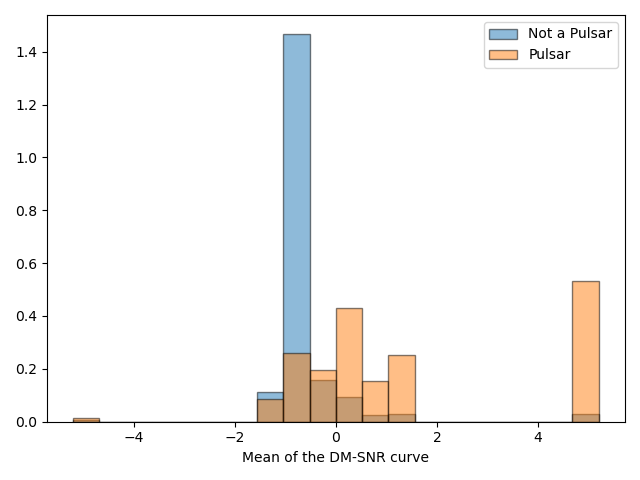
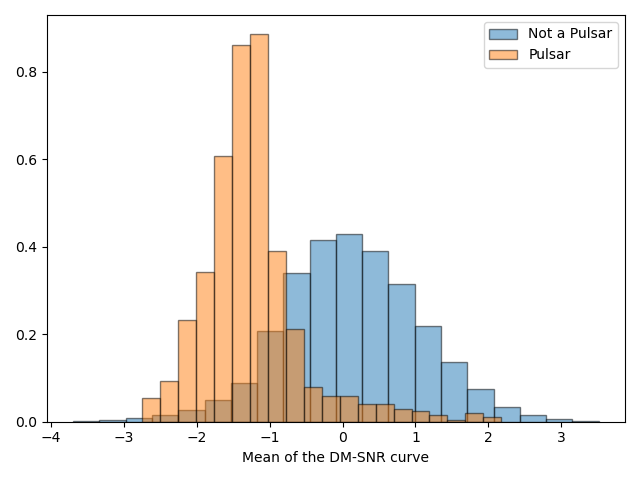
gitignore

diff --git a/main.py b/main.py
@@ -17,6 +17,8 @@ from itertools import combinations
 import time
 import concurrent.futures
 from tqdm import tqdm
+import sklearn.model_selection
+from scipy.interpolate import interp1d
 
 labels_map = {
     0: 'Not a Pulsar',
@@ -142,9 +144,9 @@ def k_fold_min_DCF(D, L, K, Classifier, prior, class_args=(), transformers=[], t
     nTest = int(D.shape[1] / K)
     nTrain = D.shape[1] - nTest
     numpy.random.seed(0)
-    idx = numpy.random.permutation(D.shape[1])
+    idx_1 = numpy.random.permutation(D.shape[1])
     # duplicate idx
-    idx = numpy.concatenate((idx, idx))
+    idx = numpy.concatenate((idx_1, idx_1))
 
     n_classes = len(set(L))
     llr = numpy.zeros(D.shape[1])
@@ -178,13 +180,19 @@ def gaussianize(D):
 if __name__ == '__main__':
     DTR, LTR = load_data('./data/Train.txt')
 
-    print_plots = False
+    # DTR, _, LTR, _ = sklearn.model_selection.train_test_split(DTR.T, LTR, train_size=1 / 8, random_state=42)
+    # DTR = DTR.T
 
-    try:
+    print_plots = True
+    load_precomputed_data = [True, True, True]  # [False, False, False]
+    store_computed_data = [True, True, True]  # [True, True, True]
+
+    if load_precomputed_data[0]:
         DTR_G = numpy.load('./data/TrainGAU.npy')
-    except FileNotFoundError:
+    else:
         DTR_G = Gaussianizer().fit(DTR).transform(DTR)
-        numpy.save('./data/TrainGAU.npy', DTR_G)
+        if store_computed_data[0]:
+            numpy.save('./data/TrainGAU.npy', DTR_G)
 
     if print_plots:
         plot_hist(DTR, LTR)
@@ -217,17 +225,17 @@ if __name__ == '__main__':
     mindcf = numpy.zeros((len(data), classifiers.shape[0], priors.shape[0]))
     transformers = [
         [Gaussianizer],
-        [Gaussianizer, PCA],
-        [Gaussianizer, PCA],
-        [Gaussianizer, PCA],
+        [PCA, Gaussianizer],
+        [PCA, Gaussianizer],
+        [PCA, Gaussianizer],
         [],
         [PCA]
     ]
     transf_args = [
         [()],
-        [(), (7,)],
-        [(), (6,)],
-        [(), (5,)],
+        [(7,), ()],
+        [(6,), ()],
+        [(5,), ()],
         [()],
         [(7,)]
     ]
@@ -237,20 +245,25 @@ if __name__ == '__main__':
     elif classifiers.shape[0] != classifier_name.shape[0]:
         raise Exception("Length of classifiers/classifier_name incoherent")
 
+    if load_precomputed_data[1]:
+        mindcf = numpy.load('./data/minDCF_GAU_models.npy')
+
     results = []
     for d, D in enumerate(data):
         with concurrent.futures.ProcessPoolExecutor() as executor:
-            for i, c in enumerate(classifiers):
-                for j, p in enumerate(priors):
-                    print(classifier_name[i] + " - prior = " + str(p) + " - data id = " + str(d))
-                    results.append(executor.submit(k_fold_min_DCF, D, LTR, 5, c, p, (), transformers[d], transf_args[d]))
-                    # print("min_DCF = " + str(mindcf[i, j]))
+            if not load_precomputed_data[1]:
+                for i, c in enumerate(classifiers):
+                    for j, p in enumerate(priors):
+                        print(classifier_name[i] + " - prior = " + str(p) + " - data id = " + str(d))
+                        results.append(executor.submit(k_fold_min_DCF, D, LTR, 5, c, p, (), transformers[d], transf_args[d]))
+                        # print("min_DCF = " + str(mindcf[i, j]))
             for i, r in enumerate(tqdm(results)):
                 mindcf[numpy.unravel_index(i, mindcf.shape, 'C')] = round(r.result(), 3)
             table = numpy.hstack((vcol(classifier_name), mindcf[d]))
             print(tabulate(table, headers=[""] + list(priors), tablefmt='fancy_grid'))
 
-    numpy.save('./data/minDCF_GAU_models.npy', mindcf)
+    if not store_computed_data[1]:
+        numpy.save('./data/minDCF_GAU_models.npy', mindcf)
 
     ##################################################################################
 
@@ -273,13 +286,13 @@ if __name__ == '__main__':
     data = [DTR for i in range(2)]
 
     lamb = numpy.array([10 ** i for i in range(-6, 6)])
-    lamb = numpy.array([numpy.linspace(lamb[i], lamb[i + 1], 10) for i in range(lamb.shape[0] - 1)]).reshape(-1)
+    lamb = numpy.array([numpy.linspace(lamb[i], lamb[i + 1], 2) for i in range(lamb.shape[0] - 1)]).reshape(-1)
     priors = numpy.array([0.5, 0.1, 0.9])
 
-    # try:
-    #     mindcf = numpy.load('./data/minDCF_LogReg_lamb.npy')
-    # except FileNotFoundError:
-    mindcf = numpy.zeros((len(data), classifiers.shape[0], priors.shape[0], lamb.shape[0]))
+    if load_precomputed_data[2]:
+        mindcf = numpy.load('./data/minDCF_LogReg_lamb.npy')
+    else:
+        mindcf = numpy.zeros((len(data), classifiers.shape[0], priors.shape[0], lamb.shape[0]))
 
     if len(data) != len(transformers) or len(transformers) != len(transf_args):
         raise Exception("Length of data/transformers/transf_args incoherent")
@@ -289,29 +302,36 @@ if __name__ == '__main__':
     results = []
     for d, D in enumerate(data):
         with concurrent.futures.ProcessPoolExecutor() as executor:
-            for i, c in enumerate(classifiers):
-                for j, p in enumerate(priors):
-                    print(classifier_name[i] + " - prior = " + str(p) + " - data id = " + str(d))
-                    for k, l in enumerate(lamb):
-                        results.append(executor.submit(k_fold_min_DCF, D, LTR, 5, c, p, (l,), transformers[d], transf_args[d]))
+            if not load_precomputed_data[2]:
+                for i, c in enumerate(classifiers):
+                    for j, p in enumerate(priors):
+                        print(classifier_name[i] + " - prior = " + str(p) + " - data id = " + str(d))
+                        for k, l in enumerate(lamb):
+                            results.append(executor.submit(k_fold_min_DCF, D, LTR, 5, c, p, (l,), transformers[d], transf_args[d]))
             for i, r in enumerate(tqdm(results)):
                 mindcf[numpy.unravel_index(i, mindcf.shape, 'C')] = round(r.result(), 3)
             table = numpy.hstack((vcol(classifier_name), mindcf[d].min(axis=2, initial=inf)))
             print(tabulate(table, headers=[""] + list(priors), tablefmt='fancy_grid'))
 
-    numpy.save('./data/minDCF_LogReg_lamb.npy', mindcf)
+    if store_computed_data[2]:
+        numpy.save('./data/minDCF_LogReg_lamb.npy', mindcf)
 
-    for i in range(mindcf.shape[0]):
-        table = numpy.hstack((vcol(classifier_name[i:i + 1]), vrow(mindcf[i].min(axis=1, initial=inf))))
-        print(tabulate(table, headers=[""] + list(priors), tablefmt='fancy_grid'))
-        plt.figure()
-        for j, p in enumerate(priors):
-            plt.plot(lamb, mindcf[i, j, :], label='minDCF (π = ' + str(p) + ')')
-        plt.xlabel('λ')
-        plt.ylabel('min DCF')
-        plt.legend()
-        plt.xscale('log')
-        plt.tight_layout()
-        name = 'Raw' if i == 0 else 'Gaussianized'
-        plt.savefig('./plots/mindcf_training/' + name + '_LogReg_lamb.png')
-        plt.show()
+    for d in range(len(data)):
+        for i in range(mindcf[d].shape[0]):
+            table = numpy.hstack((vcol(classifier_name[i:i + 1]), vrow(mindcf[d, i].min(axis=1, initial=inf))))
+            print(tabulate(table, headers=[""] + list(priors), tablefmt='fancy_grid'))
+            plt.figure()
+            for j, p in enumerate(priors):
+                plt.plot(lamb, mindcf[d, i, j], label='minDCF (π = ' + str(p) + ')')
+            plt.xlabel('λ')
+            plt.ylabel('min DCF')
+            plt.legend()
+            plt.xscale('log')
+            plt.tight_layout()
+            name = 'Raw' if i == 0 else 'Gaussianized'
+            if store_computed_data[2]:
+                plt.savefig('./plots/mindcf_training/LogReg_lamb_' + str(d) + '_' + str(i) + '.png')
+            plt.show()
+
+    ##################################################################################
+
